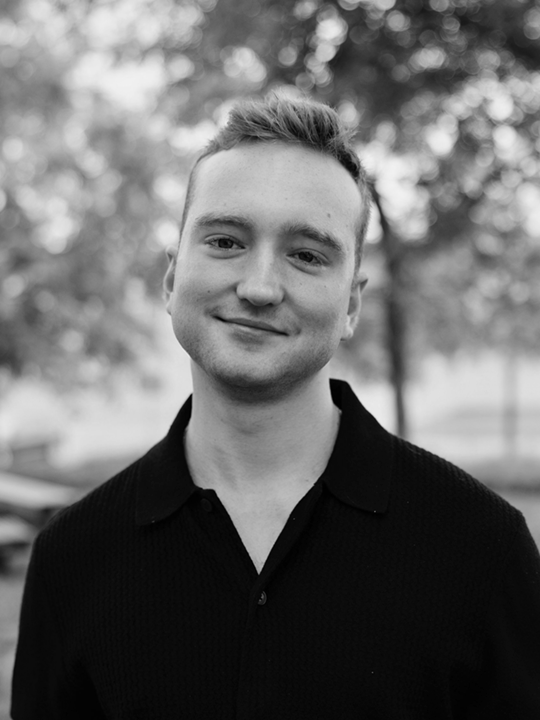
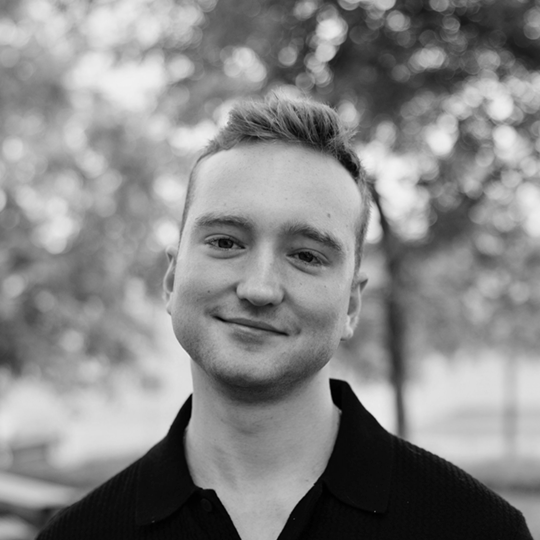
Added all team members

diff --git a/src/components/OurTeam.tsx b/src/components/OurTeam.tsx
@@ -1,4 +1,5 @@
 import Container from "react-bootstrap/Container";
+import Button from "react-bootstrap/Button";
 import "./styles/OurTeam.scss";
 import dotPattern1 from "../assets/dot_pattern_4.png";
 import dotPattern2 from "../assets/dot_pattern_7.png";
@@ -9,6 +10,12 @@ import brian from "../assets/ourteam/Brian.png";
 import simon from "../assets/ourteam/Simon.png";
 import ian from "../assets/ourteam/Ian.jpeg";
 import alec from "../assets/ourteam/Alec.jpg";
+import rory from "../assets/ourteam/Rory.jpg";
+import stafford from "../assets/ourteam/Stafford.jpeg";
+import denise from "../assets/ourteam/Denise.jpg";
+import justin from "../assets/ourteam/Justin.jpg";
+import max from "../assets/ourteam/Max.png";
+import garrett from "../assets/ourteam/Garrett.jpeg";
 
 function OurTeam() {
     return (
@@ -22,22 +29,34 @@ function OurTeam() {
             <div className="teamPictures">
                 <img alt="" src={bottomCorner} className="bottomCorner"/>
                 <img alt="" src={topCorner} className="topCorner"/>
-                <a href="https://www.wisdom.gg/labs" className="teamImgContainer">
+                <a href="https://twitter.com/0xFlows" className="teamImgContainer">
                     <img alt="" src={brian} className="teamImg"/>
                     <div className={"teamDescription"}>
                         Brian Ross - CEO
                     </div>
                 </a>
-                <a href="https://www.acmeinnovation.com/" className="teamImgContainer">
+                <a href="https://twitter.com/0xSimn" className="teamImgContainer">
                     <img alt="" src={simon} className="teamImg"/>
                     <div className={"teamDescription"}>
                         Simon Peterson - COO
                     </div>
                 </a>
-                <a href="https://www.avax.network/" className="teamImgContainer">
+                <a href="https://twitter.com/0xWorkhorse" className="teamImgContainer">
                     <img alt="" src={ian} className="teamImg"/>
                     <div className={"teamDescription"}>
                         Ian Anderson - Game Design
+                    </div>
+                </a>
+                <a href="https://www.roryreich.com/" className="teamImgContainer">
+                    <img alt="" src={rory} className="teamImg"/>
+                    <div className={"teamDescription"}>
+                        Rory Reich - Product Design
+                    </div>
+                </a>
+                <a href="https://twitter.com/mcintyrehots" className="teamImgContainer">
+                    <img alt="" src={stafford} className="teamImg"/>
+                    <div className={"teamDescription"}>
+                        Stafford McIntyre - Game Design
                     </div>
                 </a>
                 <a href="https://www.vaporfi.io/" className="teamImgContainer">
@@ -46,34 +65,28 @@ function OurTeam() {
                         Alec Lykken - Marketing
                     </div>
                 </a>
-                <a href="https://www.wisdom.gg/labs" className="teamImgContainer">
-                    <img alt="" src={brian} className="teamImg"/>
+                <a href="https://known.online/" className="teamImgContainer">
+                    <img alt="" src={denise} className="teamImg"/>
                     <div className={"teamDescription"}>
-                        Brian Ross - CEO
+                        Denise K. Záles - Strategic Advisor
                     </div>
                 </a>
-                <a href="https://www.acmeinnovation.com/" className="teamImgContainer">
-                    <img alt="" src={simon} className="teamImg"/>
+                <a href="https://www.linkedin.com/in/justinabernathy/" className="teamImgContainer">
+                    <img alt="" src={justin} className="teamImg"/>
                     <div className={"teamDescription"}>
-                        Simon Peterson - COO
+                        Justin Abernathy - Strategic Advisor
                     </div>
                 </a>
-                <a href="https://www.avax.network/" className="teamImgContainer">
-                    <img alt="" src={ian} className="teamImg"/>
+                <a href="https://www.linkedin.com/in/maxwell-cox-b167a5bb/" className="teamImgContainer">
+                    <img alt="" src={max} className="teamImg"/>
                     <div className={"teamDescription"}>
-                        Ian Anderson - Game Design
-                    </div>
-                </a>
-                <a href="https://www.vaporfi.io/" className="teamImgContainer">
-                    <img alt="" src={alec} className="teamImg"/>
-                    <div className={"teamDescription"}>
-                        Alec Lykken - Marketing
+                        Maxwell Cox - Project Manager
                     </div>
                 </a>
             </div>
-            {/*<div>
+            {<div>
                 <Button className="buttonGeneral buttonGeneralSignup">MORE</Button>
-            </div>*/}
+            </div>}
         </Container>
     );
 }

diff --git a/src/components/styles/OurTeam.scss b/src/components/styles/OurTeam.scss
@@ -63,7 +63,7 @@
 
 .teamImg {
   width: 275px;
-  height: auto;
+  object-fit: fill;
   z-index: 2;
   border-radius: 5px;
 
